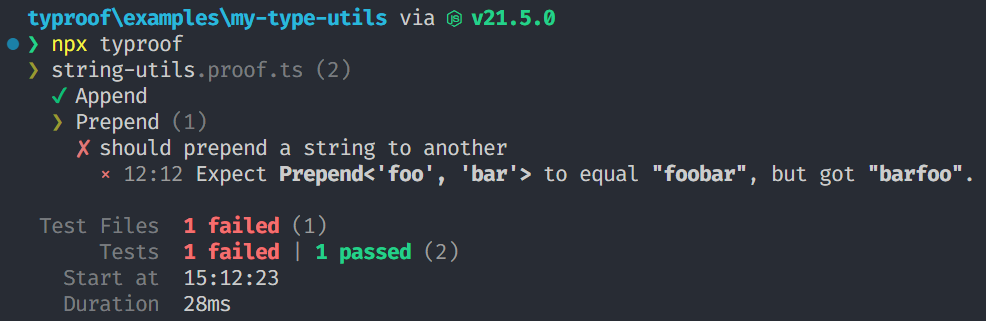
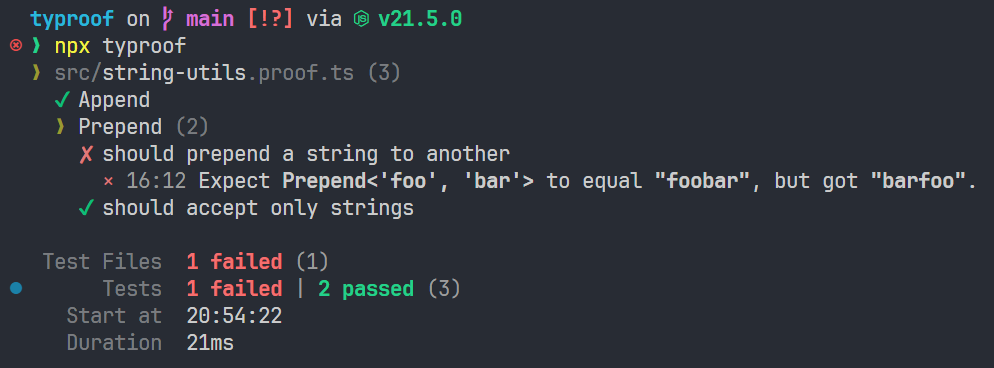
📃 docs(README): Fix example code

Changed region(s): [[0.0, 0.0, 0.9736, 0.5919], [0.0304, 0.6542, 0.4868, 0.9657], [0.0, 0.7477, 0.0304, 0.81]]

diff --git a/README.md b/README.md
@@ -43,19 +43,27 @@ export const append = <S extends string, Ext extends string>(s: S, ext: Ext): Ap
 Then you can write a `string-utils.proof.ts` file to test them:
 
 ```typescript
-import { describe, expect, it, test, equal, extend, error } from 'typroof';
+import { describe, equal, error, expect, extend, it, test } from 'typroof';
+
+import { append } from './string-utils';
 
 import type { Append, Prepend } from './string-utils';
 
 test('Append', () => {
   expect<Append<'foo', 'bar'>>().to(equal<'foobar'>);
   expect<Append<'foo', 'bar'>>().to(extend<string>);
+  expect<Append<'foo', 'bar'>>().not.to(extend<number>);
   expect(append('foo', 'bar')).to(equal('foobar' as const));
 });
 
 describe('Prepend', () => {
   it('should prepend a string to another', () => {
     expect<Prepend<'foo', 'bar'>>().to(equal<'foobar'>);
+  });
+
+  it('should accept only strings', () => {
+    // @ts-expect-error - should trigger error
+    expect<Prepend<42, 43>>().to(error);
   });
 });
 ```
